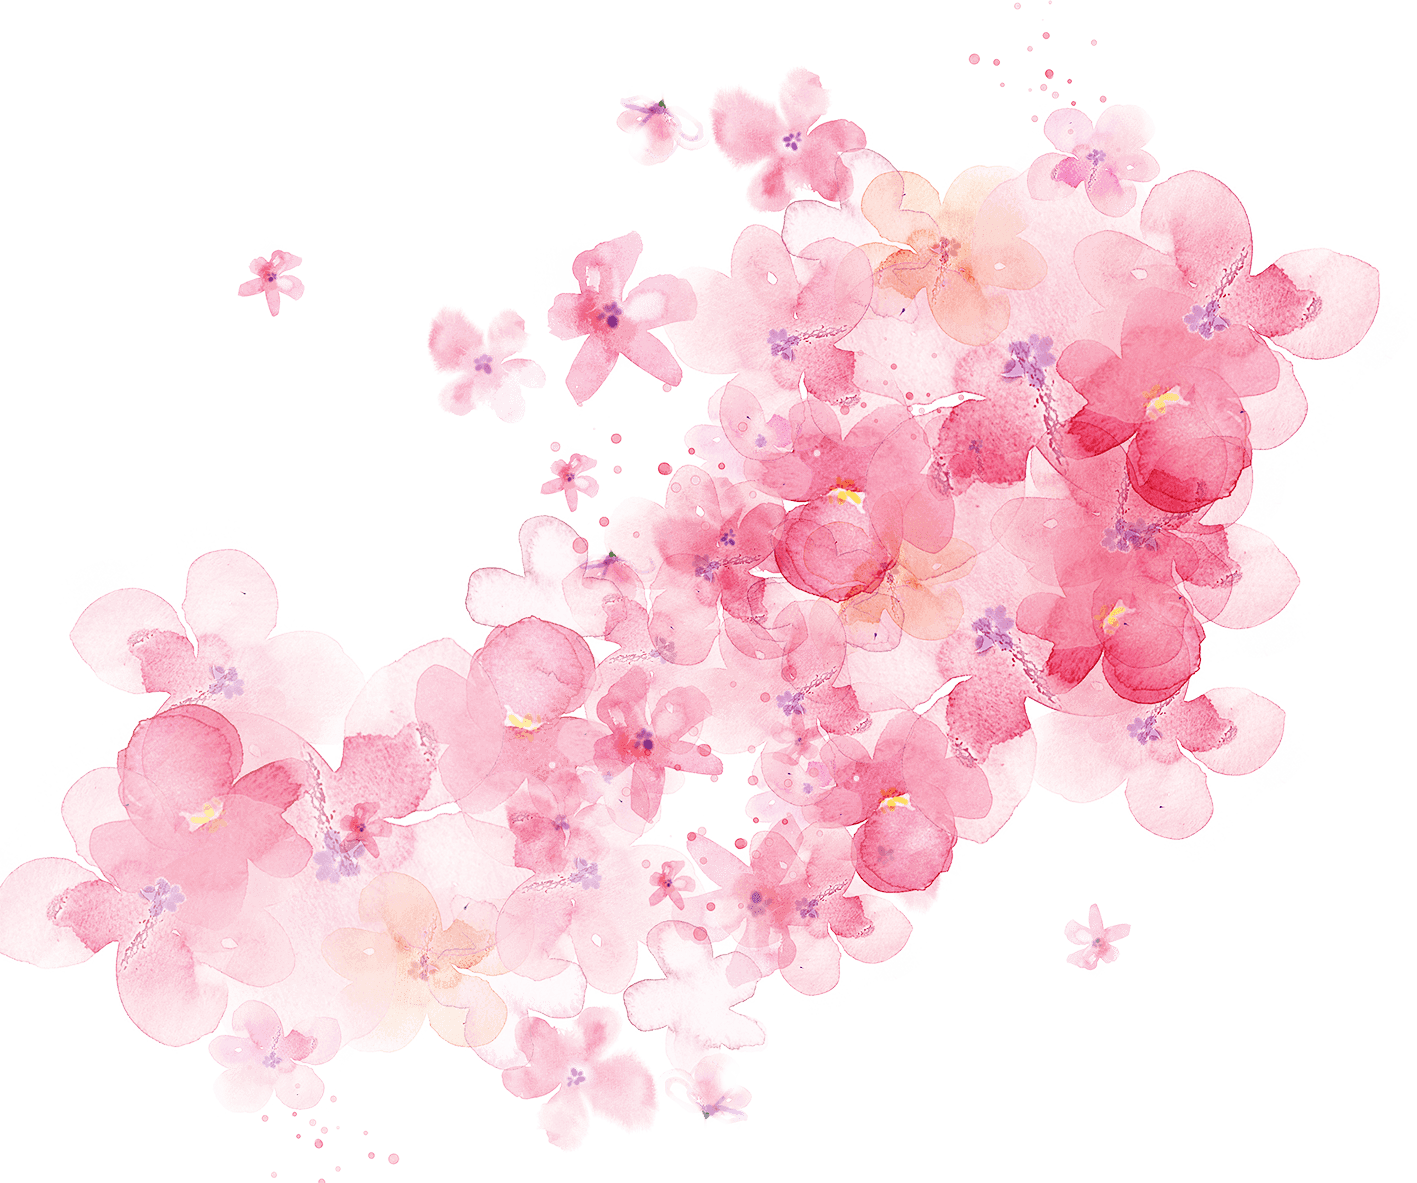
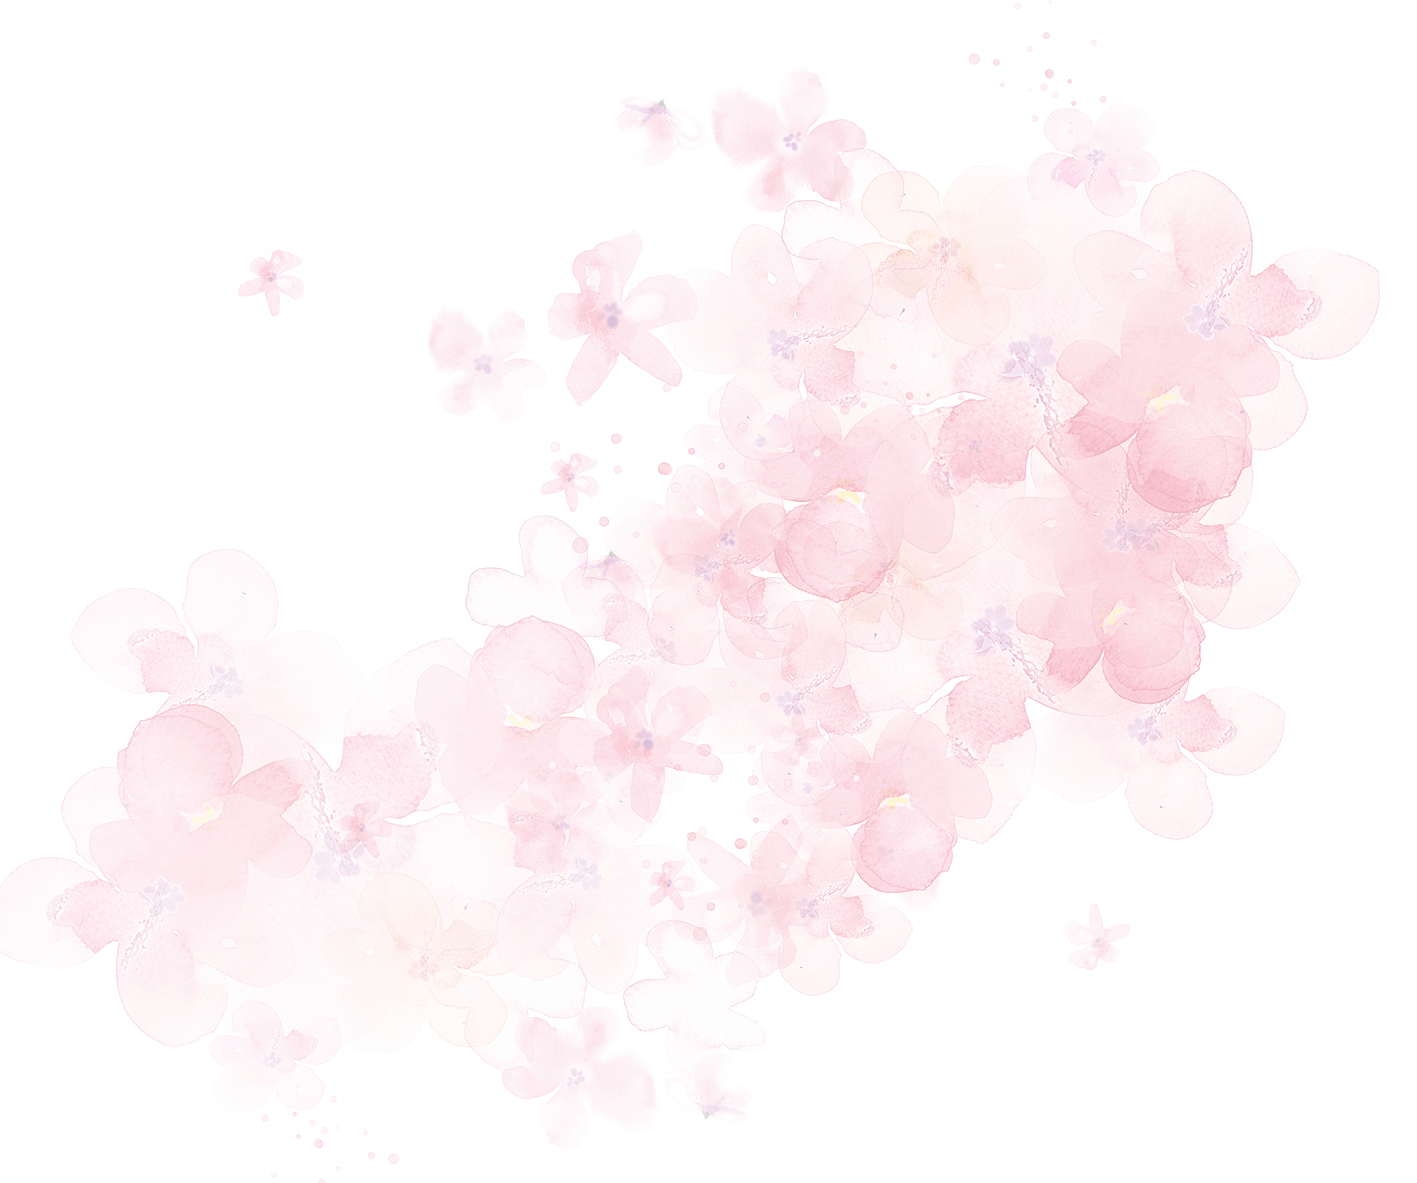
Pantalla para cuando quieren entrar a otra pantalla que no es el link proporcionado

diff --git a/src/components/Invitation/Invitation.css b/src/components/Invitation/Invitation.css
@@ -1,0 +1,41 @@
+.no-invitation {
+  width: 100dvw;
+  height: 100dvh;
+  display: flex;
+  flex-direction: column;
+  align-items: center;
+  justify-content: center;
+  background-image: url("../../assets/bg4.png");
+  background-position: center center;
+  background-size: cover;
+  position: relative;
+  overflow: hidden;
+
+  img {
+    width: 50%;
+  }
+
+  h2 {
+    font-size: 2.3rem;
+    font-weight: bold;
+    font-family: "Ephesis", cursive;
+    color: var(--text);
+    z-index: 3;
+  }
+
+  .return {
+    border: none;
+    display: flex;
+    justify-content: center;
+    align-items: center;
+    justify-content: space-around;
+    border-radius: 30px;
+    padding: 0.75rem 2rem;
+    margin-top: 1rem;
+    text-align: center;
+    text-decoration: none;
+    color: var(--bg);
+    font-family: "Inter", sans-serif;
+    background: linear-gradient(-180deg, #fb9dab 0%, #bb5e6c 100%);
+  }
+}

diff --git a/src/components/Invitation/Invitation.jsx b/src/components/Invitation/Invitation.jsx
@@ -1,4 +1,4 @@
-import { useParams } from "react-router-dom";
+import { Link, useParams } from "react-router-dom";
 import Home from "../Home/Home";
 import Event from "../Event/Event";
 import Places from "../Places/Places";
@@ -7,6 +7,9 @@ import Carrusel from "../Carrusel/Carrusel";
 import data from "../../data/data";
 import Confirm from "../Confirm/Confirm";
 import Outfit from "../Outfit/Outfit";
+import Music from "../Music/Music";
+import envelope from "../../assets/sobre.png";
+import "./Invitation.css";
 
 function Invitation() {
   const { fam } = useParams();
@@ -14,7 +17,15 @@ function Invitation() {
   const guest = data.find((item) => item.url === fam);
 
   if (!guest) {
-    return <h1>Invitación no encontrada</h1>;
+    return (
+      <div className="no-invitation">
+        <img src={envelope} alt="imagen de sobre" />
+        <h2>Invitación no encontrada</h2>
+        <Link className="return" to="/">
+          Volver
+        </Link>
+      </div>
+    );
   }
 
   return (
@@ -26,6 +37,7 @@ function Invitation() {
       <Carrusel />
       <Outfit />
       <Confirm guest={guest} />
+      <Music />
     </>
   );
 }

diff --git a/index.html b/index.html
@@ -13,6 +13,21 @@
       rel="stylesheet"
     />
     <meta name="viewport" content="width=device-width, initial-scale=1.0" />
+    <meta property="og:title" content="Ashley Yaretzi - Mis XV Años" />
+    <meta
+      property="og:description"
+      content="Acompáñame en este día tan especial en mi vida"
+    />
+    <meta
+      property="og:image"
+      content="https://ashley-yaretzi.vercel.app/mini.png"
+    />
+    <meta property="og:url" content="https://ashley-yaretzi.vercel.app/" />
+    <meta property="og:type" content="website" />
+    <meta
+      property="og:logo"
+      content="https://ashley-yaretzi.vercel.app/mini.png"
+    />
     <title>Ashley Yaretzi</title>
   </head>
   <body>

diff --git a/src/App.jsx b/src/App.jsx
@@ -1,7 +1,5 @@
 import { BrowserRouter, Routes, Route } from "react-router-dom";
-import Music from "./components/Music/Music";
 import Invitation from "./components/Invitation/Invitation";
-import NotFound from "./components/NotFound/NotFound";
 
 import "./App.css";
 import Hero from "./components/Hero/Hero";
@@ -15,11 +13,7 @@ function App() {
             <Route path="/" element={<Hero />} />
 
             <Route path="/:fam" element={<Invitation />} />
-
-            <Route path="*" element={<NotFound />} />
           </Routes>
-
-          <Music />
         </div>
       </div>
     </BrowserRouter>

diff --git a/src/components/Home/Home.css b/src/components/Home/Home.css
@@ -4,7 +4,6 @@
     background-position: center center;
     background-size: cover;
     position: relative;
-    overflow: hidden;
 
     .flower2 {
       width: 60%;